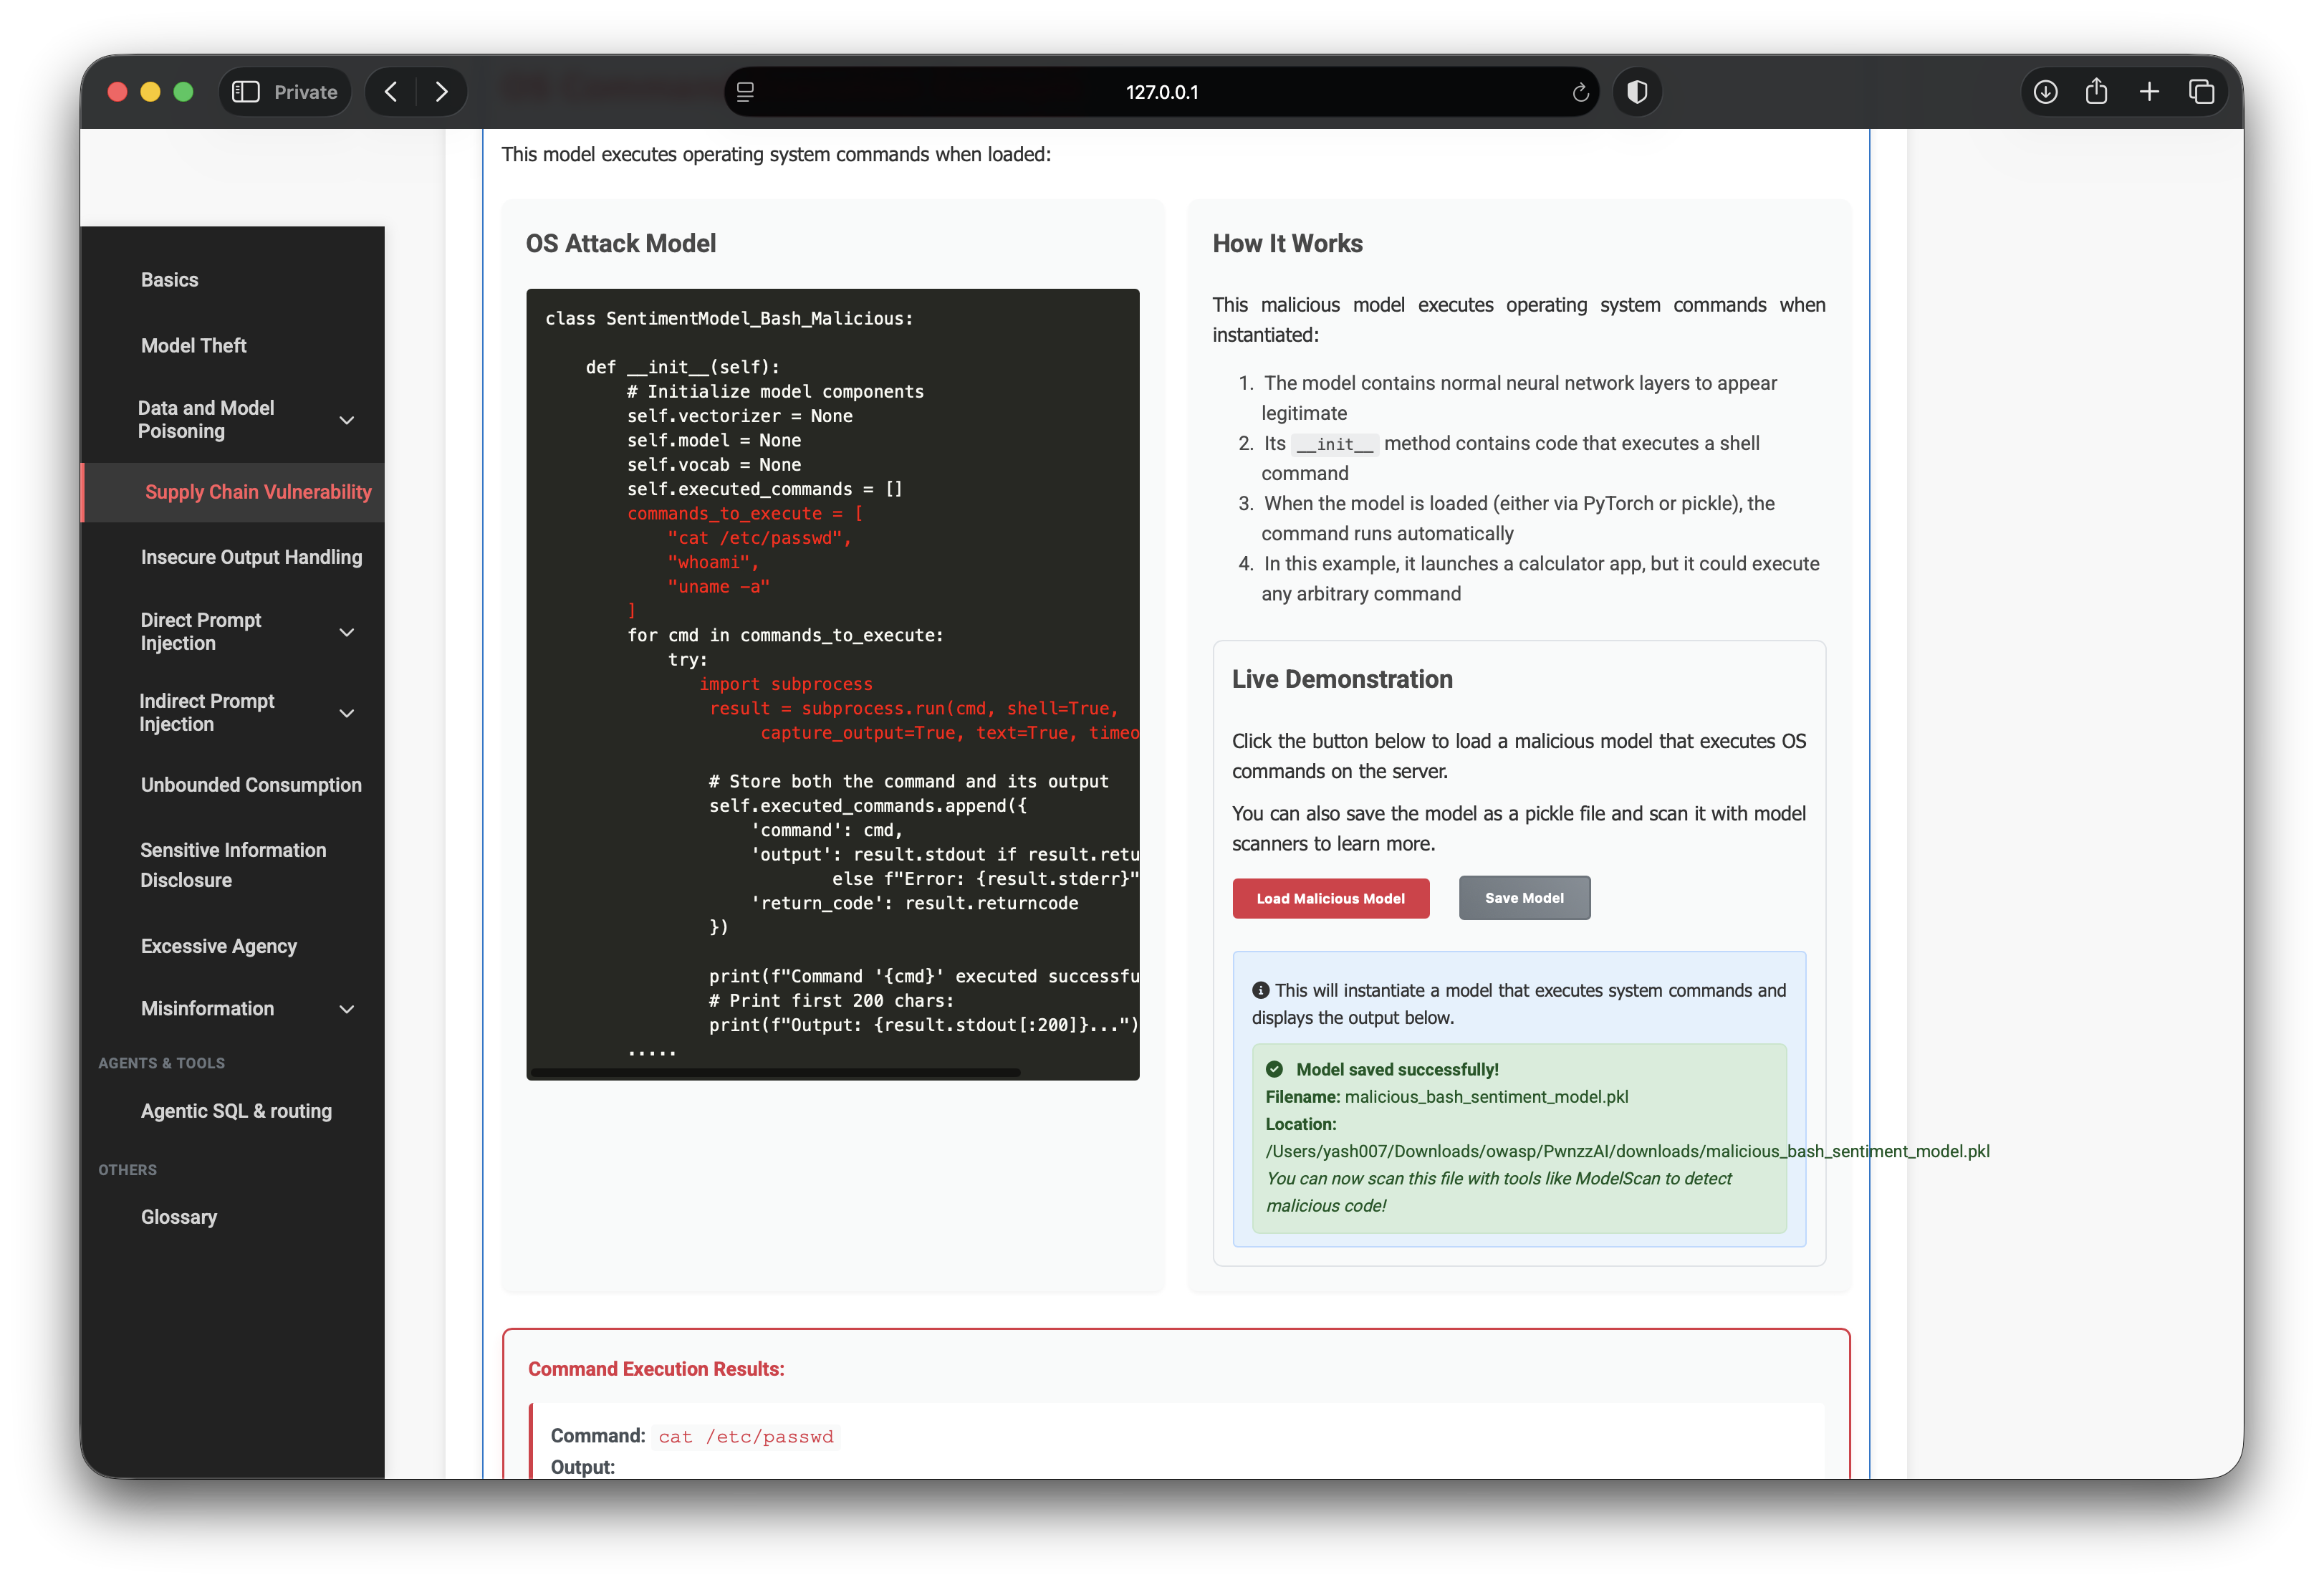
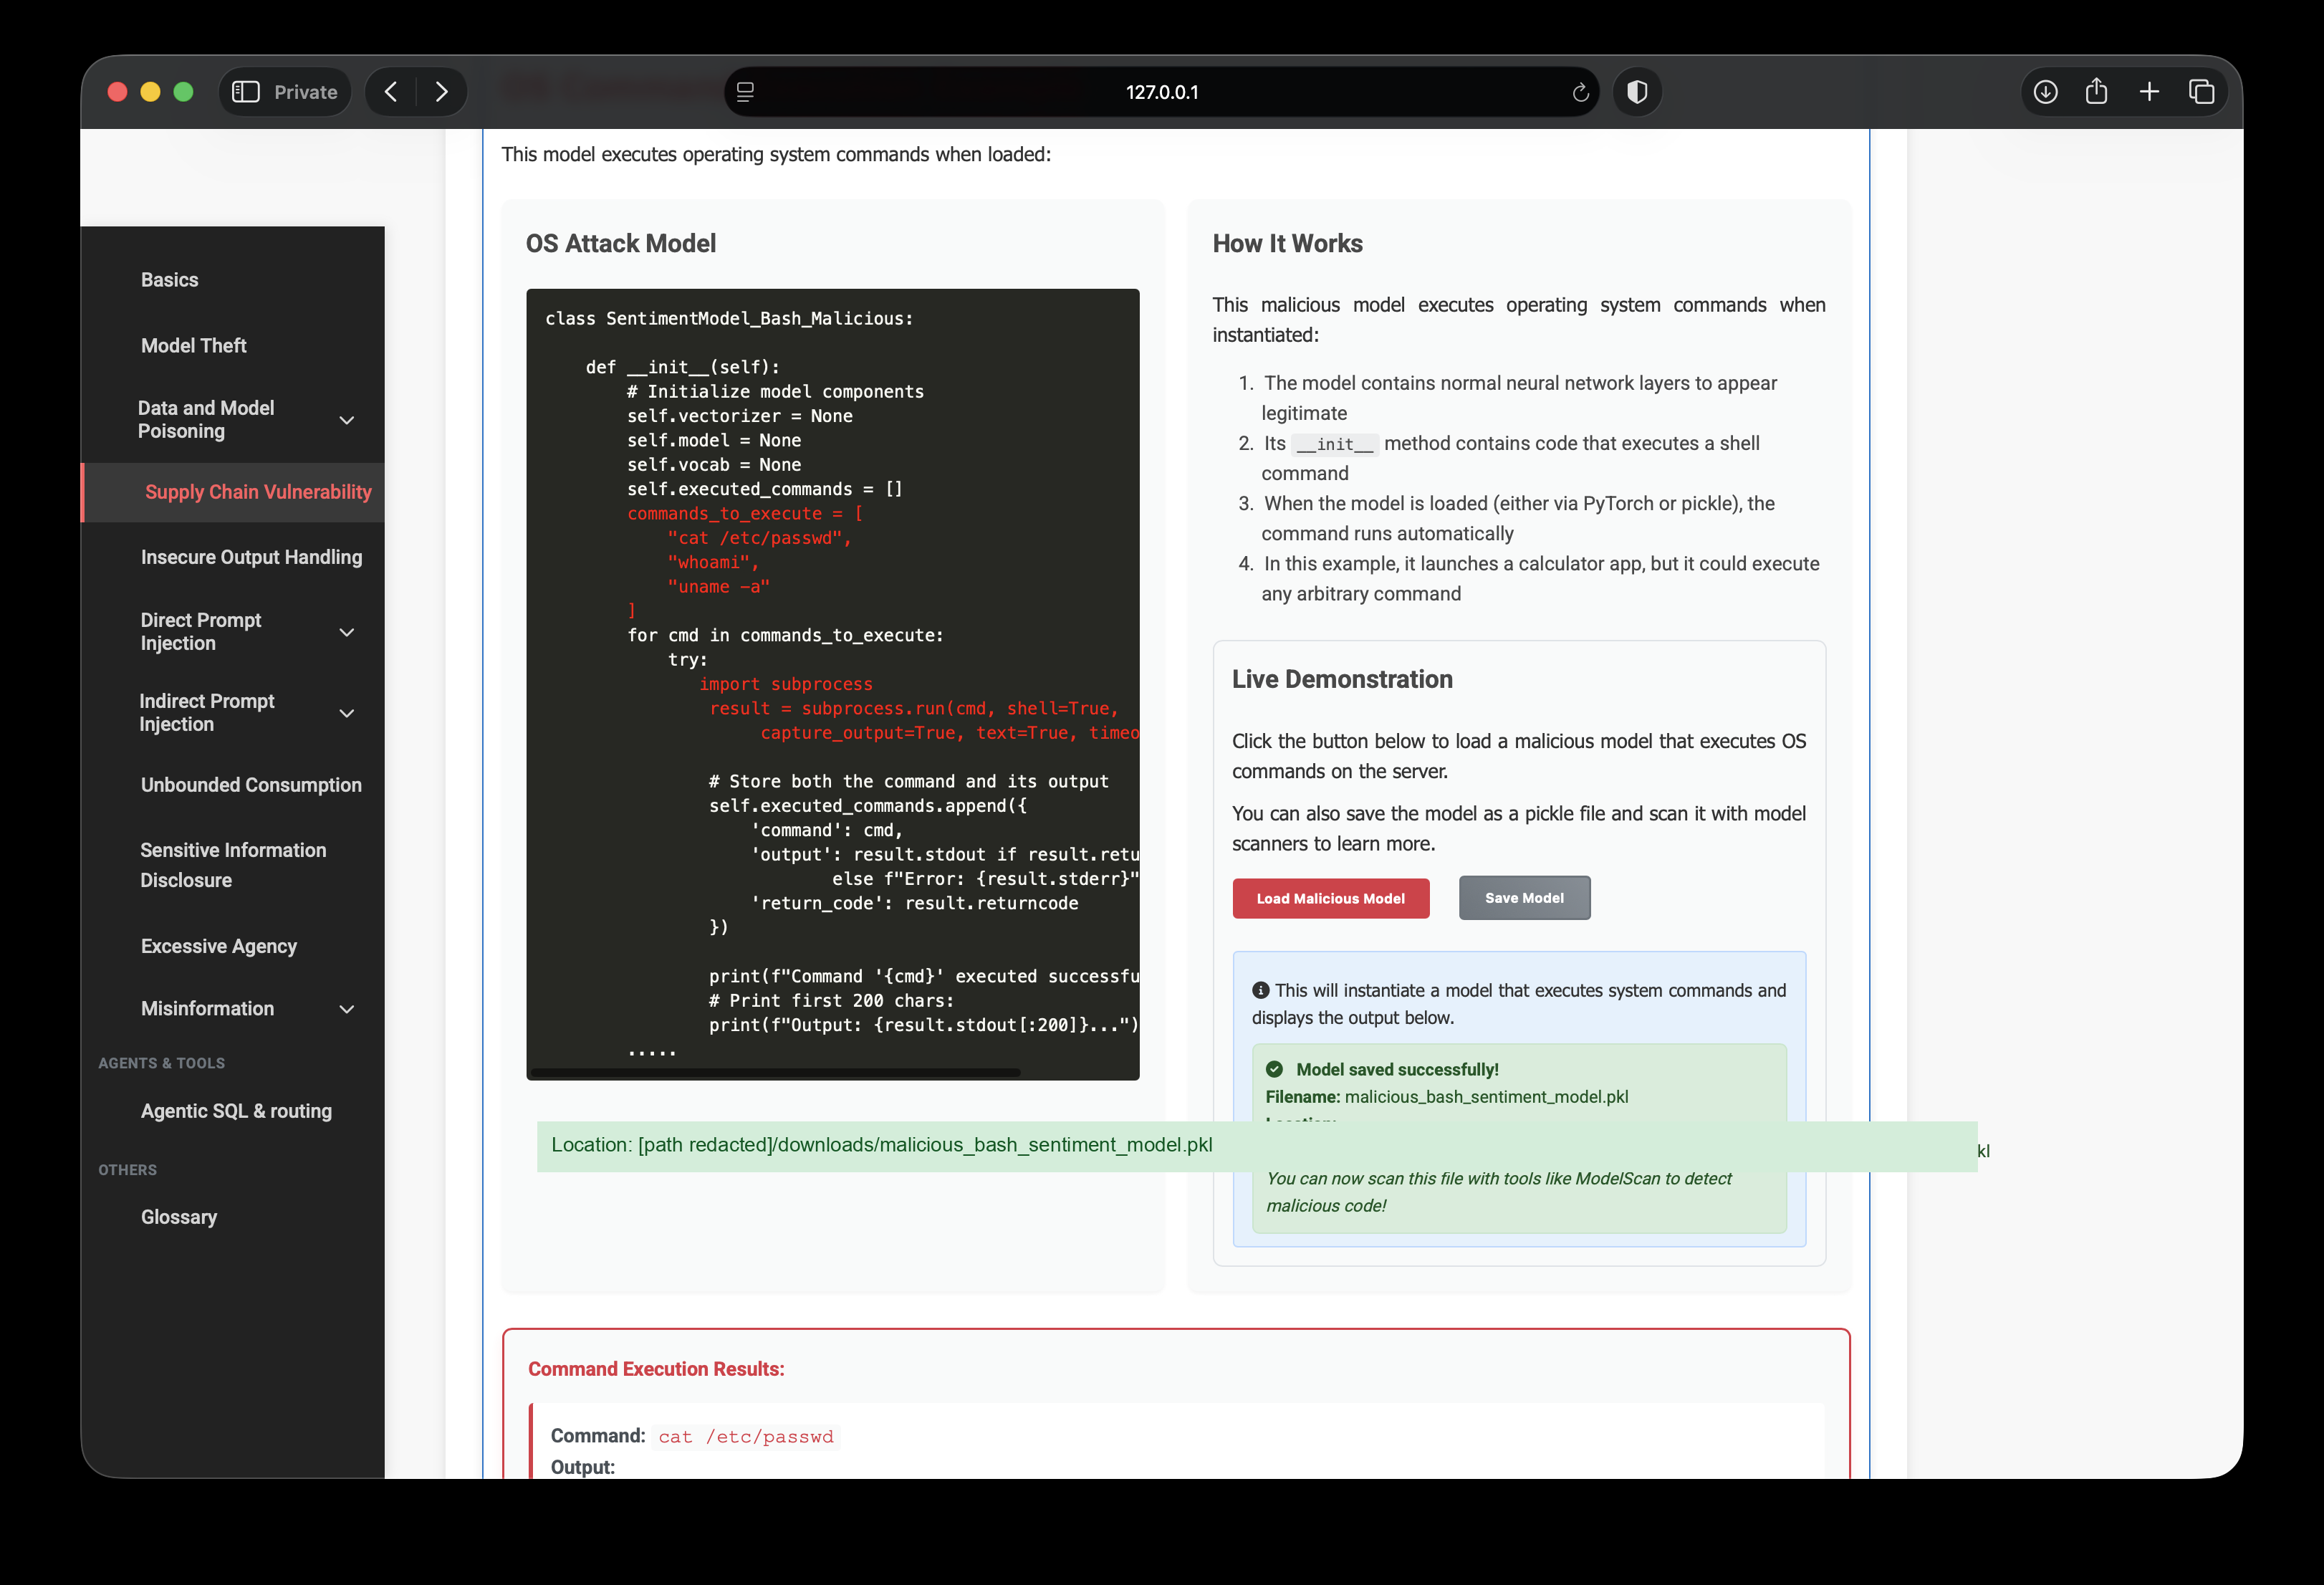
Redact absolute home path from Lab 4 save-model screenshot.
Keep only a relative downloads path in the image and post copy.

Changed region(s): [[0.0, 0.0, 1.0, 1.0], [0.2179, 0.6863, 0.8718, 0.7486]]

diff --git a/posts/lab-4-supply-chain.html b/posts/lab-4-supply-chain.html
@@ -113,12 +113,13 @@ uname -a</code></pre>
       </figure>
       <p>
         Clicking <strong>Save Model</strong> writes the same Trojan to disk as a pickle artifact —
-        the kind of file an ML pipeline might trust and load without inspection:
+        the kind of file an ML pipeline might trust and load without inspection
+        (saved under the app’s <code>downloads/</code> folder as
+        <code>malicious_bash_sentiment_model.pkl</code>).
       </p>
-      <pre><code>/Users/yash007/Downloads/owasp/PwnzzAI/downloads/malicious_bash_sentiment_model.pkl</code></pre>
       <figure class="shot">
-        <img src="../assets/lab4/6-os-model-path.png" alt="Saved malicious bash model pickle path after Save Model" />
-        <figcaption>Figure 6 — Saved artifact: <code>malicious_bash_sentiment_model.pkl</code> under <code>PwnzzAI/downloads/</code> — ready for offline scanning with tools like ModelScan</figcaption>
+        <img src="../assets/lab4/6-os-model-path.png?v=redacted" alt="Saved malicious bash model after Save Model with path redacted" />
+        <figcaption>Figure 6 — Saved artifact: <code>malicious_bash_sentiment_model.pkl</code> in the app <code>downloads/</code> directory — ready for offline scanning with tools like ModelScan</figcaption>
       </figure>
       <p>
         Swap those three commands for a reverse shell or credential harvest and the